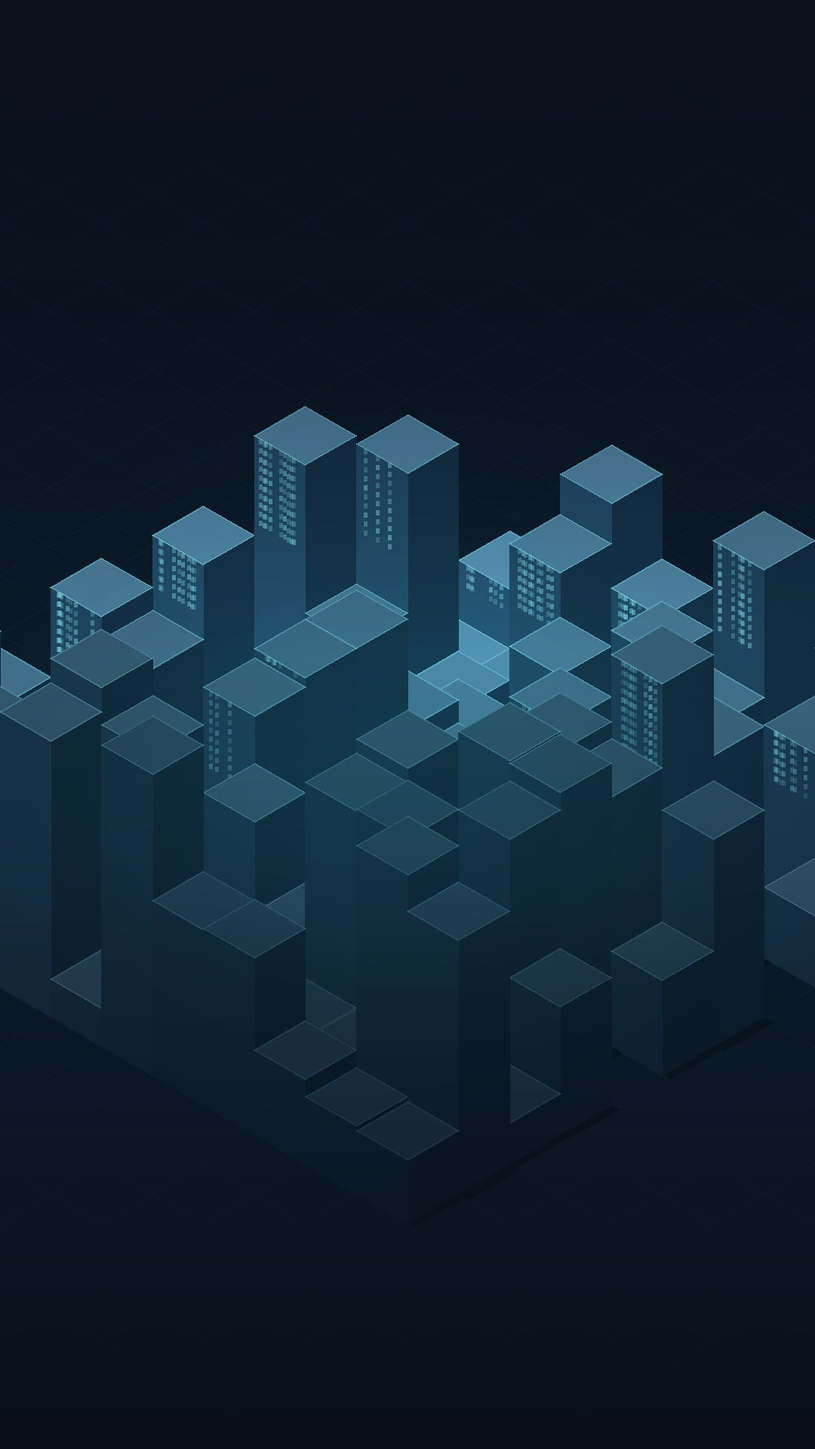
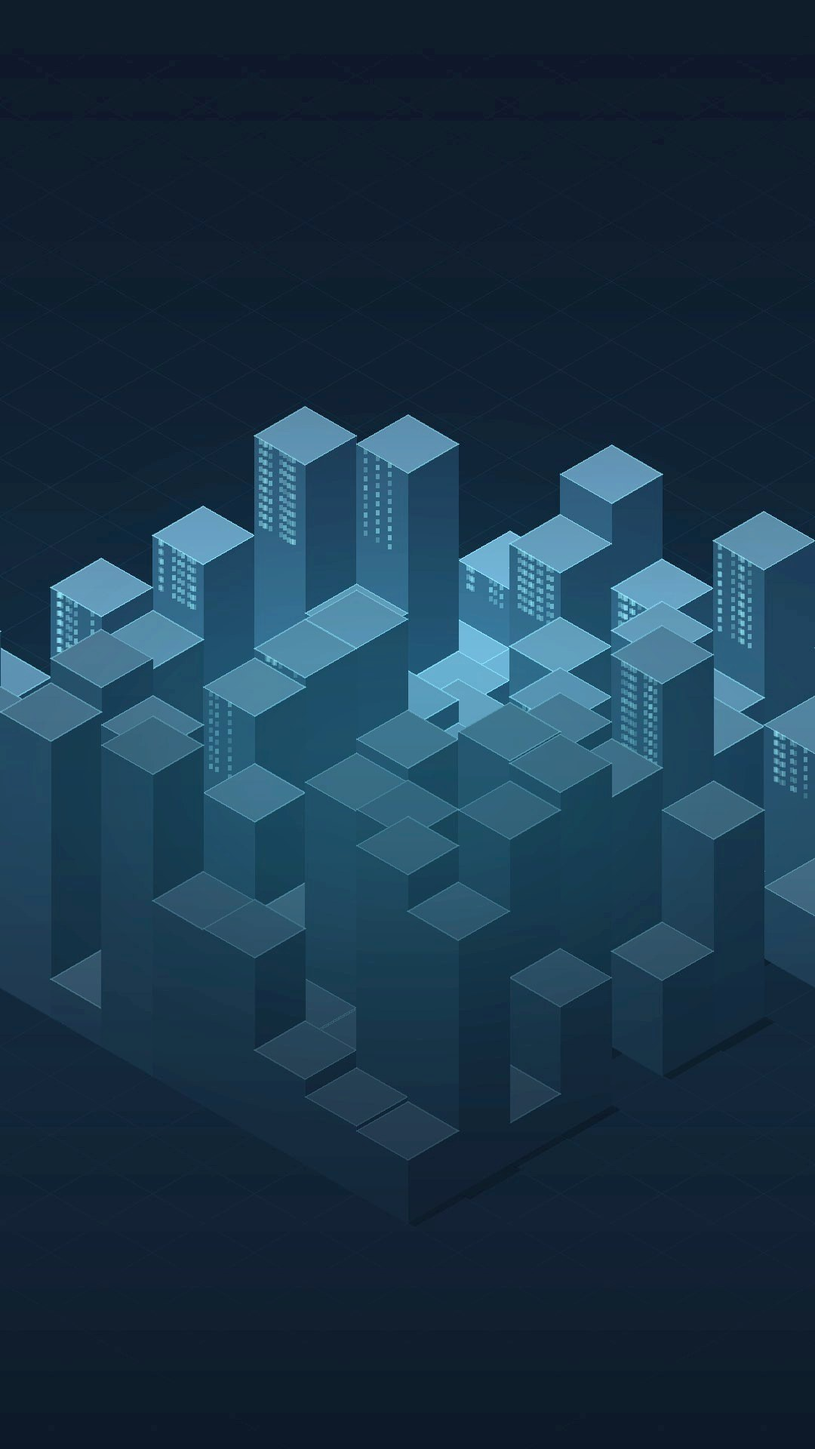
v1.1.51 背景提亮 + 全页面统一 + 卡片玻璃化

diff --git a/index.html b/index.html
@@ -55,7 +55,7 @@ body::before{
 }
 body::after{
   content:"";position:fixed;inset:0;z-index:-1;pointer-events:none;
-  background:linear-gradient(180deg,rgba(6,12,20,.55) 0%,rgba(6,12,20,.34) 45%,rgba(6,12,20,.82) 100%);
+  background:linear-gradient(180deg,rgba(6,12,20,.28) 0%,rgba(6,12,20,.18) 42%,rgba(6,12,20,.72) 100%);
 }
 body{
   background:transparent;
@@ -72,7 +72,7 @@ input{font:inherit;color:var(--txt)}
 .topbar{
   display:flex;align-items:center;gap:12px;
   padding:12px 16px;border-bottom:1px solid var(--line);
-  background:rgba(13,22,38,.9);backdrop-filter:blur(8px);
+  background:rgba(10,18,31,.42);backdrop-filter:blur(10px);-webkit-backdrop-filter:blur(10px);
   position:sticky;top:0;z-index:500;
 }
 .brand{display:flex;align-items:center;gap:10px;font-weight:700;font-size:16px}
@@ -88,8 +88,9 @@ input{font:inherit;color:var(--txt)}
 /* main */
 main{padding:14px;max-width:720px;margin:0 auto;padding-bottom:80px}
 .card{
-  background:linear-gradient(180deg,rgba(21,34,58,.7),rgba(13,22,38,.7));
+  background:linear-gradient(180deg,rgba(20,33,56,.46),rgba(11,20,35,.46));
   border:1px solid var(--line);border-radius:var(--radius);padding:14px;margin-bottom:12px;
+  backdrop-filter:blur(7px);-webkit-backdrop-filter:blur(7px);
 }
 .card h3{font-size:13px;color:var(--dim);font-weight:600;letter-spacing:1px;margin-bottom:12px;display:
     flex;align-items:center;gap:8px}
@@ -586,7 +587,7 @@ html,body,*{scrollbar-width:none;-ms-overflow-style:none}
 </main>
 
 <!-- 全屏设置页面（微信式侧滑弹窗） -->
-<div id="settings-page" style="display:none;position:fixed;inset:0;z-index:800;background:var(--bg);flex-direction:column;overflow:hidden">
+<div id="settings-page" style="display:none;position:fixed;inset:0;z-index:800;background:rgba(7,13,21,.55);backdrop-filter:blur(2px);flex-direction:column;overflow:hidden">
   <!-- 标题栏 -->
   <div style="display:flex;align-items:center;padding:12px 16px;border-bottom:1px solid var(--line);background:var(--panel);flex-shrink:0">
     <button id="settings-back" style="background:none;border:none;color:var(--txt);font-size:20px;padding:4px 8px;cursor:pointer;display:flex;align-items:center;gap:4px">
@@ -786,7 +787,7 @@ html,body,*{scrollbar-width:none;-ms-overflow-style:none}
 
 
 <!-- ================= v1.1.15：总数据管理（全屏子页面） ================= -->
-<div id="data-mgr" style="display:none;position:fixed;inset:0;z-index:900;background:var(--bg);flex-direction:column;overflow:hidden">
+<div id="data-mgr" style="display:none;position:fixed;inset:0;z-index:900;background:rgba(7,13,21,.55);backdrop-filter:blur(2px);flex-direction:column;overflow:hidden">
   <div style="display:flex;align-items:center;padding:12px 14px;border-bottom:1px solid var(--line);background:var(--panel);flex-shrink:0;gap:8px">
     <button id="dm-back" style="background:none;border:none;color:var(--txt);font-size:20px;padding:4px 6px;cursor:pointer;display:flex;align-items:center;gap:4px">
       <span>←</span><span style="font-size:15px">返回</span>
@@ -2260,7 +2261,7 @@ window.addEventListener("unhandledrejection", function (ev) {
   } catch (e) {}
 });
 
-var APP_VERSION = "1.1.50"; // v1.1.50：首页与统计页换成三维等距城市背景——程序生成的等距楼群（顶面受光/侧面压暗/窗光），固定图层 + 渐变遮罩，内容滚动时产生视差；设置页与数据管理页仍用纯色底以保持专注；v1.1.49：①启动页视频延长到 5.0s（末尾克隆 0.58s 定格，节奏更稳）；②消除启动延迟——海报帧以 base64 内联进 CSS 作背景，页面一出现就有画面，视频加载完成后再淡入接上（0.28s），不会出现黑屏/白闪；v1.1.48：去掉启动页的扫描线层（每 3px 一条横线，观感像屏幕有纹路）——视频画面本身已有质感，不需要再叠；v1.1.47：启动页换成 1080P 视频（AI 生成的 3D 工作者举手机打卡 + 定位巨环 + 胸前对勾），顶部水印已用裁切去除；视频作底层，HUD 四角标 / 扫描线 / WorkTime 品牌字仍由 CSS 叠加（3.15s 浮起）；冷启动与「后台返回超过 1.2s」都完整播放，视频异常时退回海报帧兜底；v1.1.45：换应用图标——与启动页徽标同款（深空金属圆角方块 + 青色发光指针），由 make_icon.py 程序化绘制 1024 母版再导出 512/192，构建时自动生成各档 mipmap；v1.1.44：入场动画改为「冷启动 + 从后台返回」都完整播放 4.0s——移除"当天快版"逻辑，用克隆节点重放（CSS 动画才会从头开始）；后台离开超过 1.2 秒才算一次返回，避免下拉通知栏也触发；v1.1.43：启动动画完整版延长到 4.0s 并加第 5 拍——徽章亮起后外圈数据环缓慢旋转（1.9-3.4s），避免"定格干等"；四段节奏整体放缓：网格 0.85s、雷达 1.6s、冲击波 1.82s、品牌字 3.05s 进场；当天再次启动仍为 0.55s 快版；v1.1.42：启动动画重做（纯 CSS，1.9s 四段）——俯冲路网 → 雷达扫描 + 定位点 → 三层冲击波收束成对勾徽章 → 全息底座托起表盘与品牌字；全程无文字无数字，HUD 四角标/扫描线/刻度环均为 CSS 绘制，不增加包体；同一天再次启动自动走 0.55s 快版（localStorage 标记 splash_full_at）；v1.1.41：把滚动条隐藏扩大到全局——html/body/所有元素统一 scrollbar-width:none + ::-webkit-scrollbar 宽高 0，统计区、周期班次、设置页、弹窗、记录表都不再画那根竖轴；只隐藏显示，滚动与惯性不变；v1.1.40：隐藏「工时统计」与「周期班次」的滚动条（WebView 里那根竖轴很扎眼）——CSS scrollbar-width:none + ::-webkit-scrollbar 宽高 0，滚动行为不变；v1.1.39：①删除「按天覆盖」入口——它与「班次编辑」功能重叠，且两套存储优先级互相覆盖（班次编辑写的 dayConfigMap 会静默压掉按天设置），属于理解成本与 bug 来源；历史遗留的 dailyHours/Start/End/BreakMap 在启动时一次性并入当天 dayConfigMap（只跑一次），不会出现"改不了却仍生效"的幽灵配置；②修周期班次卡片里「午休」压住时间框的错位——时间行改 minmax 自适应两列，午休独占第二行右对齐；v1.1.38：修 v1.1.35 设置页重排时多出来的一个闭合 div——它把滚动容器提前关掉，导致「同步与账号/数据/更多」三组掉到页面顶层、左边标签被裁、整页横向溢出；现已恢复正确嵌套，并补了一条结构测试（div 平衡 + 五组标题深度一致 + 只在最后闭合）防复发；v1.1.37：移除「连续工作 N 天，建议适当休息」这条提示——它只是概览里的一句提醒，用户觉得没必要；连续天数仍会在自检报告里出现，不影响任何计算；v1.1.36：移除 VPN 保活——设置页那一行（自动/手动 + 说明）、首页「VPN保活」快捷按钮、以及保存设置后自动跳转/启动 VPN 服务的逻辑一并删除；数据字段保留（旧备份仍可导入，不再有 UI）；v1.1.35：设置页重新规划——①从 20 多行平铺改为 5 组（薪资与班次 / 打卡与定位 / 同步与账号 / 数据 / 更多），按使用频率排序，组间加小标题；②四个「按天分别设置」按钮合并为一个「按天覆盖」入口，点开弹菜单选工时/上班/下班/午休；③工作地点原来占 5 行（搜索、名称、坐标、微调、保存）收进二级页，设置页只留一行摘要（名称 + 是否已定位）；④「数据」行改名「导出 / 导入」；v1.1.34：日历格子压矮——54px → 46px（内边距 5→3、行高 1.15→1.1、圆角 7→6），三行信息不变，一个月少占约两行高度；v1.1.33：日历格子显示工时与金额——每格从「只有日期」变成「日期 + 10.8h + ¥226」三行，已打卡的日子一眼看到收益，不用再点开或翻统计表；格子最小高度 54px、数字用等宽数字对齐，色块/虚线/缺签退的配色规则保持不变；v1.1.32：周期班次卡片细节规整——①统一 4px 网格（卡片内边距/间距 8-12、控件高 30、圆角 12/8）；②时间行改 grid 固定列宽 96/12/96/1fr，七天纵向严格对齐、午休右对齐；③复选框统一 16/15px 并垂直居中；④休息日卡片改虚线边框 + 时间行淡出，未启用时星期名变灰；⑤顶部新增「已启用 N 天 · 其中休息日 M 天 · 其余 K 天按默认」实时计数；v1.1.31：周期班次弹窗改「每天一张卡片」——原来一行并排 5 个控件，手机上挤成一团、时间框被压到不可用；现在每天一张卡：上行「星期 + 休息日」，下行「上班 — 下班 + 午休 分」，未启用整卡变淡、勾休息日后时间自动灰掉不可编辑；v1.1.30：收尾优化——①「诊断」行平时隐藏，只有出错才显示（连点版本号 5 次可手动查看）；②「全量重传」加确认弹窗（它会刷新全部记录时间戳，不该误点）；v1.1.29：修「绑定后重启→绑定区空白」的真因——initCloudSync() 在 6082 行被调用，而 SYNC_FG_MS/SYNC_BG_MS 在 6846 行才 const 声明，本地有 openid 时 startAutoSync→_syncTickMs 读未初始化常量抛 ReferenceError，IIFE 中断、window.CloudSync 永远挂不上。①删掉提前的那次 initCloudSync（只保留文件末尾带 try/catch 的那次）；②两个常量提到 cloudSyncState 之后，彻底消除顺序依赖；v1.1.28：绑定区失败不再静默——全局 error/unhandledrejection 与 CloudSync 未挂载都会写进「诊断」行，便于一次定位；v1.1.27：撤掉 v1.1.24「内容没变不重绘」的跳过逻辑（它就是"绑定区整块消失"的元凶），改为每次都渲染；保留 v1.1.26 的自诊断行便于复查；v1.1.26：绑定区"重新进入后整块消失"——加自诊断行（版本/登录态/openid/绑定码/容器/子节点数/渲染次数/上次错误），并让前后台切换时无条件补渲染一次；v1.1.25：绑定永久保持 + 绑定区一定渲染——①绑定成功时除 localStorage 外再往 DB 存一份 openid/绑定码（DB 会随 IndexedDB 备份一起恢复），启动时若 localStorage 丢了就从 DB 兜底恢复，实现"绑一次永久有效，除非手动解绑"；②导出后立刻渲染一次绑定区（此前只靠 renderSettings 末尾那一次调用，若早于 window.CloudSync 赋值就会停在上面的静态占位——即"未绑定微信"下面一片空白、连绑定码和按钮都没有）；③已绑定态补「检查绑定」按钮，可核对云端 binding 是否还在、openid 是否与本机一致；v1.1.24：修「绑定码复制不了」——绑定码区块原来没有任何样式，而且每次 renderAll 都会重建 innerHTML，长按刚要出现选择手柄就被重绘冲掉；现在①新增「复制绑定码」按钮，点代码本身也能复制（navigator.clipboard 失败自动退回 execCommand）；②给 .bind-code 加可选中样式（user-select:all）；③渲染前比对「状态+绑定码」签名，内容没变不再重绘；v1.1.23：修「云端有数据、小程序永远空白」——①「全量重传」原来只清零 syncedAt，但云函数写库前要比对 updatedAt（本地 < 上次上传时间就会被判成"云端更新"而跳过），于是云端时间戳永远刷新不了；对端按 lastSyncTime 取增量，游标一旦走到前面就再也拉不到历史。现在全量重传同时把本地 updatedAt 推到当前时刻，强制云端重写，对端下次同步即可取回全部；②自检报告把云端条数拆成「正常 + 墓碑」并与本地正常条数对照，避免把覆盖删除留下的 deleted:true 误当成脏数据；③绑定后自动清零下载游标（原有）；v1.1.22：修「批量补录不按补录框里的时间算」——原来补录记录的快照取的是当天默认设置（07:00–21:00），填了 07:00–19:00 也按 14h 算，于是 11 天全显示 13.5h/¥283.50。现在补录记录的快照由补录框的上下班时间生成（午休/时薪/计薪方式仍继承当天配置），07:00–19:00 即 12h−30min=11.5h/¥241.50；同时修夜班补录（下班时间早于上班时间，如 22:00–06:00）：下班记录落到次日，并把跨夜下班窗口从 6 小时放宽到 8 小时，否则正好卡在 06:00 的那次签退配不上对、只剩 90 分钟；v1.1.21：修「改完设置，当天的计算结果不变」——把「已完成才锁定」落成可执行的规则：①已签退，或未签退但已过下班时间 → 视为此班已完成，继续用记录快照（历史不倒改）；②未签退且还没到下班时间 → 视为进行中，工时/目标/午休/时薪/金额全部改用当天最新设置，改完立刻能看到变化；③签退的那一刻把所属上班记录的快照刷新为"此刻"的值，完成即定稿，不会出现签退后又跳回旧数；④保存默认值/午休/时薪时，若今天被"按天设置/班次编辑"单独覆盖过，明确提示「默认值从明天起生效」，不再让人以为保存没生效；v1.1.20：修「记录上传失败 · 错误码 -2 · Cannot create field 'breakMin' in element {cfg: null}」——云数据库 update 已有文档时会把嵌套对象拆成点路径（cfg.breakMin、cfg.start…）再写，云端旧文档的 cfg 是 null 时无法在 null 下建子字段，整批 write errors 一起失败（新增记录不受影响，只有"更新已有记录"这一路炸）。①APK 侧：没有 cfg 快照的记录不再发 cfg 字段（原来发 cfg:null），彻底绕开点路径展开；②云函数侧：cfg 改走 _.set() 整体替换；③失败提示只截前 160 字，不再糊满整屏；v1.1.19：提同步速度——①记录上传改 3 路并发（原来批次串行，10 批就是 10 倍排队）；②轮询分级：前台 3 分钟、后台 30 分钟（原来固定 30 分钟），切回前台立即补一次；③下载游标独立成 lastDownloadAt 并持久化（原来与上传共用 lastSync，上传会把游标推到"现在"，漏掉对端刚改的记录）；④空转跳过：没有新东西要传且两分钟内刚下载过，后台轮询不再拉一遍全量；⑤启动预热匿名会话与云函数；⑥打卡后 3 秒合并上传；⑦同步/自检提示补上批次数与耗时；配套云函数补丁：下载改真增量（用起 lastSyncTime，留 10 分钟回看窗口）、上传按 id 批量查存在性（30 条从 30 次读降到 2 次）、回传 total 与 ownerOpenid；v1.1.18：专治「APK 说同步完成、小程序收不到」——①记录上传分批（每批 30 条，逐批推进游标并落盘）：原实现把所有待传记录连同每条记录的 cfg 快照塞进一次 callFunction，历史一多就超请求体上限；云函数里每条记录还要 1~2 次数据库查询，几百条直接超时，整批失败且游标不推进，下次又整批重来，永远传不完；②上传失败时明确报出「第几批、该批多少条、已成功多少条」，不再是一句含糊的失败；③新增身份一致性校验：下载回来的云端记录带着 _openid，与本地绑定到的 openid 尾号比对，不一致就直接点明「数据写进了另一个身份，小程序看不到」；④新增「自检」按钮：一次跑完绑定态/checkBind/上传/下载/身份比对，输出可一键复制的报告，不用再靠猜；v1.1.17：修复「午休时长仍会倒改已完成记录」——v1.1.16 已让计算走记录快照，但展示与导出仍在读实时设置，于是改设置里的午休时长后，首页「午休扣除 X」、记录列表、月度统计表的「午休 Xmin」/目标工时/完成度、CSV「午休(分钟)」列、按日期编辑弹窗里的「上班/下班/午休」全都跟着变，看起来就是午休还在回写历史。现在 computeShifts 统一汇总出「当天账本口径」shifts.ctx（有记录时来自该记录固化的 cfg 快照，无记录才回落实时配置），上述所有展示与导出口径都改为读它，与工时、金额同源；refreshAfterEdit 中那份会读实时配置的重复概览逻辑改为直接复用 renderOverview；CSV 的时薪/收入也改按班次快照，休息日写 0 并注明；v1.1.16：修复两处——①当日已完成记录仍被设置倒改：computeShifts 的「每日封顶额度/封顶口径」原先取实时配置（targetMin/effMode），改班次或每日工时后已完成的班次会被重新削顶（07:00-19:00 已记 690 分钟，改成 09:00-18:00 后变 510）；现改为按当天每条上班记录自带快照的班次目标取最大值来封顶、口径按首条快照，快照新增 hours 固化「每日工时」，旧记录升级时补一次；②云同步「假成功」：syncSettings/syncRecords/syncFromCloud 改为返回结构化结果（ok/uploaded/code/msg），任何一步云函数返回非 0 都明确提示是哪一步、错误码与消息，不再无条件弹「数据同步完成」；上传载荷补带 cfg 快照与 adminAdd，小程序端不会再用它那边的实时设置重算工时；重新绑定成功后重置全部记录的 syncedAt 以触发全量重传（此前换绑后本地记录都标着「已同步」，一条都不传 → 小程序永远空白），并新增「全量重传」按钮；上传成功但云端读回 0 条时提示核对是否同一个微信号；v1.1.15：新增「总数据管理」（设置 → 数据管理）——①全屏管理页：数据总览（有效/墓碑条数、覆盖天数、累计工时与金额）+ 日期区间/类型/状态筛选 + 逐条勾选（不勾则作用于筛选命中的全部）；②批量修改：时间平移（±分钟）、统一时刻、整体改期，跨日改动自动按目标日期重固化 cfg 快照；③软删除与恢复，只动选中的记录，不连带其它日期；④批量补录：按日期区间逐日补一对上下班，可跳过休息日与已有记录，来源标记 admin 且不伪造工作地点坐标；⑤清理墓碑、清空全部（软删除，设置项不受影响）；⑥每次写操作前把 records 整份快照存到独立 key（不进 DB/备份/云同步），可整体撤销一步；v1.1.14：设置不再影响历史——①每条记录产生时固化 cfg 快照（班次/午休/时薪/计薪方式），计算工时与金额时优先用记录自带快照，改设置只影响之后的新记录；②概览/记录列表/统计表的金额改为按各班次自己的时薪累加；③迟到判定改用该次签到时的班次快照；④旧记录自动补快照（backfillRecordCfg），从此不再漂移；⑤单日班次编辑器仍会同步该日记录（显式按日修正）；v1.1.13：修复工时/休息日/周期班次——①周期班次与单日班次保存时休息日不再被丢弃（勾「休」可不填时间）②00:00 被 falsy 误判为非法的所有校验改为 == null 判断（零点班可用）③休息日不再产生金额（概览/记录列表/月度统计全部不计薪，且不进月收入合计）④未签退的班次不再预付整班工时（未到下班时间只计已出勤时长）；v1.1.12：未到工作区禁止任何签到记录操作——新增 checkRecordGate() 统一闸门（工作地已设置+定位有效+定位≤60秒新鲜+在围栏内），接入 addRecord/doCheck/补录三处；签退不再"随处可签"；补录改存真实坐标；v1.1.11：云函数调用超时保护（未登录云开发/云函数不可达时搜索不再永久挂起）；v1.1.10：修复搜索无响应——①云函数返回体解包错位导致云路径从不生效 ②识别百度"天配额超限"并立即提示 ③搜索加12秒超时+按钮"搜索中"状态 ④同名匹配防止采纳别家公司坐标 ⑤搜索结果缓存降低配额消耗 ⑥输入联想防抖300→500ms、门槛2→3字；v1.1.9：修复工作地定位——①拒绝行政区级(城市/区县)坐标入库 ②「设为当前位置」主动取新鲜GPS ③原生地图红标/围栏跟随工作地变更 ④红标可拖拽回写坐标 ⑤修正原生地图WGS84/BD09坐标偏移
+var APP_VERSION = "1.1.51"; // v1.1.51：背景分层调整——①城市底图提亮（gamma 0.82 + 亮度 1.12），遮罩从 55/34/82 降到 28/18/72，楼群真正可见；②设置页与数据管理页改为半透明（rgba(7,13,21,.55) + 轻微模糊），全 App 共用同一层城市背景；v1.1.50：首页与统计页换成三维等距城市背景——程序生成的等距楼群（顶面受光/侧面压暗/窗光），固定图层 + 渐变遮罩，内容滚动时产生视差；设置页与数据管理页仍用纯色底以保持专注；v1.1.49：①启动页视频延长到 5.0s（末尾克隆 0.58s 定格，节奏更稳）；②消除启动延迟——海报帧以 base64 内联进 CSS 作背景，页面一出现就有画面，视频加载完成后再淡入接上（0.28s），不会出现黑屏/白闪；v1.1.48：去掉启动页的扫描线层（每 3px 一条横线，观感像屏幕有纹路）——视频画面本身已有质感，不需要再叠；v1.1.47：启动页换成 1080P 视频（AI 生成的 3D 工作者举手机打卡 + 定位巨环 + 胸前对勾），顶部水印已用裁切去除；视频作底层，HUD 四角标 / 扫描线 / WorkTime 品牌字仍由 CSS 叠加（3.15s 浮起）；冷启动与「后台返回超过 1.2s」都完整播放，视频异常时退回海报帧兜底；v1.1.45：换应用图标——与启动页徽标同款（深空金属圆角方块 + 青色发光指针），由 make_icon.py 程序化绘制 1024 母版再导出 512/192，构建时自动生成各档 mipmap；v1.1.44：入场动画改为「冷启动 + 从后台返回」都完整播放 4.0s——移除"当天快版"逻辑，用克隆节点重放（CSS 动画才会从头开始）；后台离开超过 1.2 秒才算一次返回，避免下拉通知栏也触发；v1.1.43：启动动画完整版延长到 4.0s 并加第 5 拍——徽章亮起后外圈数据环缓慢旋转（1.9-3.4s），避免"定格干等"；四段节奏整体放缓：网格 0.85s、雷达 1.6s、冲击波 1.82s、品牌字 3.05s 进场；当天再次启动仍为 0.55s 快版；v1.1.42：启动动画重做（纯 CSS，1.9s 四段）——俯冲路网 → 雷达扫描 + 定位点 → 三层冲击波收束成对勾徽章 → 全息底座托起表盘与品牌字；全程无文字无数字，HUD 四角标/扫描线/刻度环均为 CSS 绘制，不增加包体；同一天再次启动自动走 0.55s 快版（localStorage 标记 splash_full_at）；v1.1.41：把滚动条隐藏扩大到全局——html/body/所有元素统一 scrollbar-width:none + ::-webkit-scrollbar 宽高 0，统计区、周期班次、设置页、弹窗、记录表都不再画那根竖轴；只隐藏显示，滚动与惯性不变；v1.1.40：隐藏「工时统计」与「周期班次」的滚动条（WebView 里那根竖轴很扎眼）——CSS scrollbar-width:none + ::-webkit-scrollbar 宽高 0，滚动行为不变；v1.1.39：①删除「按天覆盖」入口——它与「班次编辑」功能重叠，且两套存储优先级互相覆盖（班次编辑写的 dayConfigMap 会静默压掉按天设置），属于理解成本与 bug 来源；历史遗留的 dailyHours/Start/End/BreakMap 在启动时一次性并入当天 dayConfigMap（只跑一次），不会出现"改不了却仍生效"的幽灵配置；②修周期班次卡片里「午休」压住时间框的错位——时间行改 minmax 自适应两列，午休独占第二行右对齐；v1.1.38：修 v1.1.35 设置页重排时多出来的一个闭合 div——它把滚动容器提前关掉，导致「同步与账号/数据/更多」三组掉到页面顶层、左边标签被裁、整页横向溢出；现已恢复正确嵌套，并补了一条结构测试（div 平衡 + 五组标题深度一致 + 只在最后闭合）防复发；v1.1.37：移除「连续工作 N 天，建议适当休息」这条提示——它只是概览里的一句提醒，用户觉得没必要；连续天数仍会在自检报告里出现，不影响任何计算；v1.1.36：移除 VPN 保活——设置页那一行（自动/手动 + 说明）、首页「VPN保活」快捷按钮、以及保存设置后自动跳转/启动 VPN 服务的逻辑一并删除；数据字段保留（旧备份仍可导入，不再有 UI）；v1.1.35：设置页重新规划——①从 20 多行平铺改为 5 组（薪资与班次 / 打卡与定位 / 同步与账号 / 数据 / 更多），按使用频率排序，组间加小标题；②四个「按天分别设置」按钮合并为一个「按天覆盖」入口，点开弹菜单选工时/上班/下班/午休；③工作地点原来占 5 行（搜索、名称、坐标、微调、保存）收进二级页，设置页只留一行摘要（名称 + 是否已定位）；④「数据」行改名「导出 / 导入」；v1.1.34：日历格子压矮——54px → 46px（内边距 5→3、行高 1.15→1.1、圆角 7→6），三行信息不变，一个月少占约两行高度；v1.1.33：日历格子显示工时与金额——每格从「只有日期」变成「日期 + 10.8h + ¥226」三行，已打卡的日子一眼看到收益，不用再点开或翻统计表；格子最小高度 54px、数字用等宽数字对齐，色块/虚线/缺签退的配色规则保持不变；v1.1.32：周期班次卡片细节规整——①统一 4px 网格（卡片内边距/间距 8-12、控件高 30、圆角 12/8）；②时间行改 grid 固定列宽 96/12/96/1fr，七天纵向严格对齐、午休右对齐；③复选框统一 16/15px 并垂直居中；④休息日卡片改虚线边框 + 时间行淡出，未启用时星期名变灰；⑤顶部新增「已启用 N 天 · 其中休息日 M 天 · 其余 K 天按默认」实时计数；v1.1.31：周期班次弹窗改「每天一张卡片」——原来一行并排 5 个控件，手机上挤成一团、时间框被压到不可用；现在每天一张卡：上行「星期 + 休息日」，下行「上班 — 下班 + 午休 分」，未启用整卡变淡、勾休息日后时间自动灰掉不可编辑；v1.1.30：收尾优化——①「诊断」行平时隐藏，只有出错才显示（连点版本号 5 次可手动查看）；②「全量重传」加确认弹窗（它会刷新全部记录时间戳，不该误点）；v1.1.29：修「绑定后重启→绑定区空白」的真因——initCloudSync() 在 6082 行被调用，而 SYNC_FG_MS/SYNC_BG_MS 在 6846 行才 const 声明，本地有 openid 时 startAutoSync→_syncTickMs 读未初始化常量抛 ReferenceError，IIFE 中断、window.CloudSync 永远挂不上。①删掉提前的那次 initCloudSync（只保留文件末尾带 try/catch 的那次）；②两个常量提到 cloudSyncState 之后，彻底消除顺序依赖；v1.1.28：绑定区失败不再静默——全局 error/unhandledrejection 与 CloudSync 未挂载都会写进「诊断」行，便于一次定位；v1.1.27：撤掉 v1.1.24「内容没变不重绘」的跳过逻辑（它就是"绑定区整块消失"的元凶），改为每次都渲染；保留 v1.1.26 的自诊断行便于复查；v1.1.26：绑定区"重新进入后整块消失"——加自诊断行（版本/登录态/openid/绑定码/容器/子节点数/渲染次数/上次错误），并让前后台切换时无条件补渲染一次；v1.1.25：绑定永久保持 + 绑定区一定渲染——①绑定成功时除 localStorage 外再往 DB 存一份 openid/绑定码（DB 会随 IndexedDB 备份一起恢复），启动时若 localStorage 丢了就从 DB 兜底恢复，实现"绑一次永久有效，除非手动解绑"；②导出后立刻渲染一次绑定区（此前只靠 renderSettings 末尾那一次调用，若早于 window.CloudSync 赋值就会停在上面的静态占位——即"未绑定微信"下面一片空白、连绑定码和按钮都没有）；③已绑定态补「检查绑定」按钮，可核对云端 binding 是否还在、openid 是否与本机一致；v1.1.24：修「绑定码复制不了」——绑定码区块原来没有任何样式，而且每次 renderAll 都会重建 innerHTML，长按刚要出现选择手柄就被重绘冲掉；现在①新增「复制绑定码」按钮，点代码本身也能复制（navigator.clipboard 失败自动退回 execCommand）；②给 .bind-code 加可选中样式（user-select:all）；③渲染前比对「状态+绑定码」签名，内容没变不再重绘；v1.1.23：修「云端有数据、小程序永远空白」——①「全量重传」原来只清零 syncedAt，但云函数写库前要比对 updatedAt（本地 < 上次上传时间就会被判成"云端更新"而跳过），于是云端时间戳永远刷新不了；对端按 lastSyncTime 取增量，游标一旦走到前面就再也拉不到历史。现在全量重传同时把本地 updatedAt 推到当前时刻，强制云端重写，对端下次同步即可取回全部；②自检报告把云端条数拆成「正常 + 墓碑」并与本地正常条数对照，避免把覆盖删除留下的 deleted:true 误当成脏数据；③绑定后自动清零下载游标（原有）；v1.1.22：修「批量补录不按补录框里的时间算」——原来补录记录的快照取的是当天默认设置（07:00–21:00），填了 07:00–19:00 也按 14h 算，于是 11 天全显示 13.5h/¥283.50。现在补录记录的快照由补录框的上下班时间生成（午休/时薪/计薪方式仍继承当天配置），07:00–19:00 即 12h−30min=11.5h/¥241.50；同时修夜班补录（下班时间早于上班时间，如 22:00–06:00）：下班记录落到次日，并把跨夜下班窗口从 6 小时放宽到 8 小时，否则正好卡在 06:00 的那次签退配不上对、只剩 90 分钟；v1.1.21：修「改完设置，当天的计算结果不变」——把「已完成才锁定」落成可执行的规则：①已签退，或未签退但已过下班时间 → 视为此班已完成，继续用记录快照（历史不倒改）；②未签退且还没到下班时间 → 视为进行中，工时/目标/午休/时薪/金额全部改用当天最新设置，改完立刻能看到变化；③签退的那一刻把所属上班记录的快照刷新为"此刻"的值，完成即定稿，不会出现签退后又跳回旧数；④保存默认值/午休/时薪时，若今天被"按天设置/班次编辑"单独覆盖过，明确提示「默认值从明天起生效」，不再让人以为保存没生效；v1.1.20：修「记录上传失败 · 错误码 -2 · Cannot create field 'breakMin' in element {cfg: null}」——云数据库 update 已有文档时会把嵌套对象拆成点路径（cfg.breakMin、cfg.start…）再写，云端旧文档的 cfg 是 null 时无法在 null 下建子字段，整批 write errors 一起失败（新增记录不受影响，只有"更新已有记录"这一路炸）。①APK 侧：没有 cfg 快照的记录不再发 cfg 字段（原来发 cfg:null），彻底绕开点路径展开；②云函数侧：cfg 改走 _.set() 整体替换；③失败提示只截前 160 字，不再糊满整屏；v1.1.19：提同步速度——①记录上传改 3 路并发（原来批次串行，10 批就是 10 倍排队）；②轮询分级：前台 3 分钟、后台 30 分钟（原来固定 30 分钟），切回前台立即补一次；③下载游标独立成 lastDownloadAt 并持久化（原来与上传共用 lastSync，上传会把游标推到"现在"，漏掉对端刚改的记录）；④空转跳过：没有新东西要传且两分钟内刚下载过，后台轮询不再拉一遍全量；⑤启动预热匿名会话与云函数；⑥打卡后 3 秒合并上传；⑦同步/自检提示补上批次数与耗时；配套云函数补丁：下载改真增量（用起 lastSyncTime，留 10 分钟回看窗口）、上传按 id 批量查存在性（30 条从 30 次读降到 2 次）、回传 total 与 ownerOpenid；v1.1.18：专治「APK 说同步完成、小程序收不到」——①记录上传分批（每批 30 条，逐批推进游标并落盘）：原实现把所有待传记录连同每条记录的 cfg 快照塞进一次 callFunction，历史一多就超请求体上限；云函数里每条记录还要 1~2 次数据库查询，几百条直接超时，整批失败且游标不推进，下次又整批重来，永远传不完；②上传失败时明确报出「第几批、该批多少条、已成功多少条」，不再是一句含糊的失败；③新增身份一致性校验：下载回来的云端记录带着 _openid，与本地绑定到的 openid 尾号比对，不一致就直接点明「数据写进了另一个身份，小程序看不到」；④新增「自检」按钮：一次跑完绑定态/checkBind/上传/下载/身份比对，输出可一键复制的报告，不用再靠猜；v1.1.17：修复「午休时长仍会倒改已完成记录」——v1.1.16 已让计算走记录快照，但展示与导出仍在读实时设置，于是改设置里的午休时长后，首页「午休扣除 X」、记录列表、月度统计表的「午休 Xmin」/目标工时/完成度、CSV「午休(分钟)」列、按日期编辑弹窗里的「上班/下班/午休」全都跟着变，看起来就是午休还在回写历史。现在 computeShifts 统一汇总出「当天账本口径」shifts.ctx（有记录时来自该记录固化的 cfg 快照，无记录才回落实时配置），上述所有展示与导出口径都改为读它，与工时、金额同源；refreshAfterEdit 中那份会读实时配置的重复概览逻辑改为直接复用 renderOverview；CSV 的时薪/收入也改按班次快照，休息日写 0 并注明；v1.1.16：修复两处——①当日已完成记录仍被设置倒改：computeShifts 的「每日封顶额度/封顶口径」原先取实时配置（targetMin/effMode），改班次或每日工时后已完成的班次会被重新削顶（07:00-19:00 已记 690 分钟，改成 09:00-18:00 后变 510）；现改为按当天每条上班记录自带快照的班次目标取最大值来封顶、口径按首条快照，快照新增 hours 固化「每日工时」，旧记录升级时补一次；②云同步「假成功」：syncSettings/syncRecords/syncFromCloud 改为返回结构化结果（ok/uploaded/code/msg），任何一步云函数返回非 0 都明确提示是哪一步、错误码与消息，不再无条件弹「数据同步完成」；上传载荷补带 cfg 快照与 adminAdd，小程序端不会再用它那边的实时设置重算工时；重新绑定成功后重置全部记录的 syncedAt 以触发全量重传（此前换绑后本地记录都标着「已同步」，一条都不传 → 小程序永远空白），并新增「全量重传」按钮；上传成功但云端读回 0 条时提示核对是否同一个微信号；v1.1.15：新增「总数据管理」（设置 → 数据管理）——①全屏管理页：数据总览（有效/墓碑条数、覆盖天数、累计工时与金额）+ 日期区间/类型/状态筛选 + 逐条勾选（不勾则作用于筛选命中的全部）；②批量修改：时间平移（±分钟）、统一时刻、整体改期，跨日改动自动按目标日期重固化 cfg 快照；③软删除与恢复，只动选中的记录，不连带其它日期；④批量补录：按日期区间逐日补一对上下班，可跳过休息日与已有记录，来源标记 admin 且不伪造工作地点坐标；⑤清理墓碑、清空全部（软删除，设置项不受影响）；⑥每次写操作前把 records 整份快照存到独立 key（不进 DB/备份/云同步），可整体撤销一步；v1.1.14：设置不再影响历史——①每条记录产生时固化 cfg 快照（班次/午休/时薪/计薪方式），计算工时与金额时优先用记录自带快照，改设置只影响之后的新记录；②概览/记录列表/统计表的金额改为按各班次自己的时薪累加；③迟到判定改用该次签到时的班次快照；④旧记录自动补快照（backfillRecordCfg），从此不再漂移；⑤单日班次编辑器仍会同步该日记录（显式按日修正）；v1.1.13：修复工时/休息日/周期班次——①周期班次与单日班次保存时休息日不再被丢弃（勾「休」可不填时间）②00:00 被 falsy 误判为非法的所有校验改为 == null 判断（零点班可用）③休息日不再产生金额（概览/记录列表/月度统计全部不计薪，且不进月收入合计）④未签退的班次不再预付整班工时（未到下班时间只计已出勤时长）；v1.1.12：未到工作区禁止任何签到记录操作——新增 checkRecordGate() 统一闸门（工作地已设置+定位有效+定位≤60秒新鲜+在围栏内），接入 addRecord/doCheck/补录三处；签退不再"随处可签"；补录改存真实坐标；v1.1.11：云函数调用超时保护（未登录云开发/云函数不可达时搜索不再永久挂起）；v1.1.10：修复搜索无响应——①云函数返回体解包错位导致云路径从不生效 ②识别百度"天配额超限"并立即提示 ③搜索加12秒超时+按钮"搜索中"状态 ④同名匹配防止采纳别家公司坐标 ⑤搜索结果缓存降低配额消耗 ⑥输入联想防抖300→500ms、门槛2→3字；v1.1.9：修复工作地定位——①拒绝行政区级(城市/区县)坐标入库 ②「设为当前位置」主动取新鲜GPS ③原生地图红标/围栏跟随工作地变更 ④红标可拖拽回写坐标 ⑤修正原生地图WGS84/BD09坐标偏移
 const WEEKDAY_NAMES = ["周日", "周一", "周二", "周三", "周四", "周五", "周六"];
 
 // ---- 通用自绘弹层：确认 / 输入（替代系统 confirm/prompt）----

diff --git a/sw.js b/sw.js
@@ -1,5 +1,5 @@
 // v1.1: 缓存名带版本号；移除跨域百度地图脚本（旧 AK 已轮换，且跨域 addAll 会让 install 失败）
-const CACHE_NAME = 'worktime-v38';
+const CACHE_NAME = 'worktime-v39';
 const ASSETS = [
   '/',
   '/index.html'
